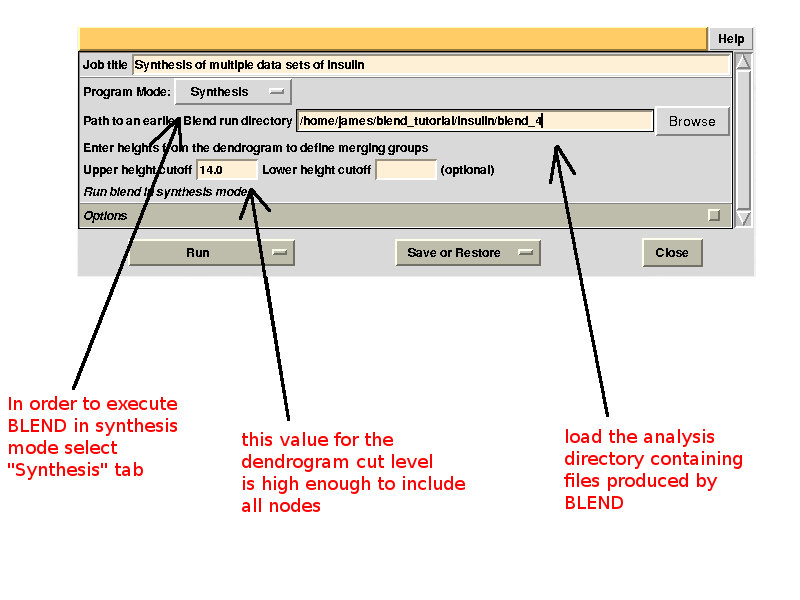
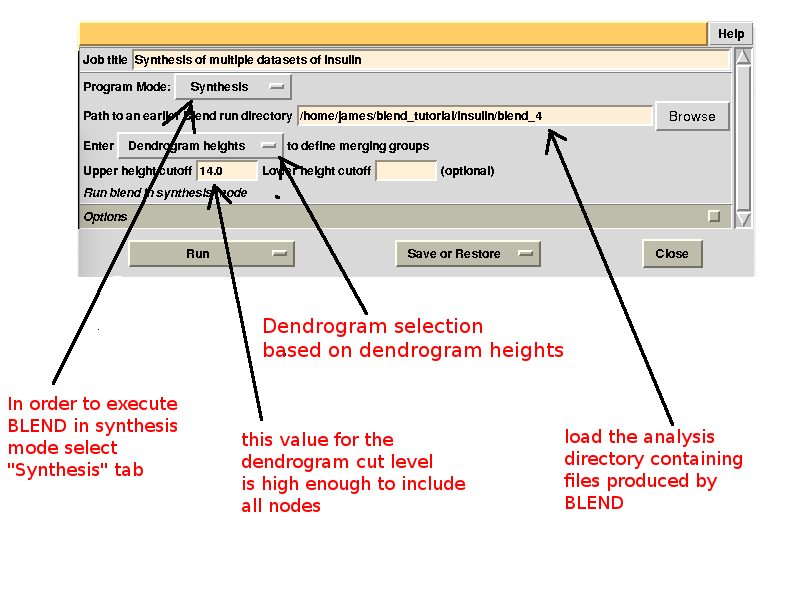
BLEND: CHANGES IN VERSION 0.6.16  -  20/11/2015        - Added missing code for displaying correctly aLCV annotated dendrograms in PS format.          (module blend4.R)
Also updated some of the material for blend tutorials

diff --git a/additional_material/BLEND_tutorial.html b/additional_material/BLEND_tutorial.html
@@ -244,12 +244,16 @@ interface, but the user
  containing all 14 data sets; this is probably an indication of some
  minor form of non-isomorphism. Tests done so far with BLEND show that
  some structural dissimilarities can be noticed for values of LCV
- higher than 1 – 1.5%.
+ higher than 1 – 1.5%. It is probably more appropriate to use absolute
+ values in order to make judgments on crystals isomorphism. The reason is
+ that the absolute Linear Cell Variation (aLCV) is expressed in angstroms and,
+ thus, it can immediately give sensible numbers in relation to cell parameters
+ differences. 
  </FONT>
 </P>
 <P>
  <FONT SIZE=4>
- LCV
+ LCV and aLCV
  values for all clusters are reported in the file “CLUSTERS.txt”:
  </FONT>
 </P>
@@ -354,7 +358,7 @@ interface, but the user
  <FONT SIZE=4>
  Next,
  we associate this directory to a new project directory in ccp4i,
- called “BLEND_TURORIAL_AMENDED_INSULIN”, and select this project
+ called “BLEND_TUTORIAL_AMENDED_INSULIN”, and select this project
  directory. BLEND can now be executed again in analysis mode, this
  time selecting  the “original.dat” file as starting point, rather
  than the whole directory containing all 14 insulin data sets:
@@ -420,7 +424,8 @@ interface, but the user
  time “FINAL_list_of_files.dat” shows some difference in the
  number of images discarded. For data set 9 discarded images range 102
  to 122, while before it ranged 108 to 122, and images 93 to 100 are
- now discarded from data set 7, while no images were previously discarded:
+ now discarded from data set 7, while no images were previously discarded.
+A small change also occurs for data set 1:
  </FONT>
 </P>
 <P ALIGN=CENTER
@@ -532,6 +537,13 @@ interface, but the user
 </P>
 <P ALIGN=CENTER>
 <img src="imagesBT/BLEND_0.5.1_tutorial_html_1522a9ab.png">
+</P>
+<P>
+ <FONT SIZE=4>
+ Cluster selection can also be based on LCV or aLCV values. This might make sense when one's only interest is in finding the most 
+ compact groups of crystals. The selection of all clusters just reported can be also achieved by selecting "aLCV values" instead
+ of "Dendrogram heights" and inputting for example "0.85" (so to cover all clusters), rather than "14".
+ </FONT>
 </P>
 <P>
  <FONT SIZE=4>
@@ -888,12 +900,23 @@ interface, but the user
 <P>
  <FONT SIZE=4>
  To run BLEND in synthesis mode and
- produce scaled data for all nodes of the dendrogram, type:
+ produce scaled data for all nodes of the dendrogram, we could type:
  </FONT>
 </P>
 <P ALIGN=CENTER>
  <FONT SIZE=4 COLOR="#008000">
  blend -s 14 &lt; bkeys.dat &gt; blend_synthesis.log
+ </FONT>
+</P>
+<P>
+ <FONT SIZE=4>
+ But, just to show that the same results are obtained using aLCV, rather than the dendrogram's height, we 
+ executed BLEND in the following way:
+ </FONT>
+</P>
+<P ALIGN=CENTER>
+ <FONT SIZE=4 COLOR="#008000">
+ blend -saLCV 0.85 &lt; bkeys.dat &gt; blend_synthesis.log
  </FONT>
 </P>
 <P>
@@ -1018,7 +1041,7 @@ interface, but the user
 </P>
 <P ALIGN=CENTER>
  <FONT SIZE=4 COLOR="#008000">
- mkdir lysozyme_test
+ mkdir lysozyme
  </FONT>
 </P>
 <P>
@@ -1053,7 +1076,7 @@ interface, but the user
  <FONT SIZE=4>
  The
  overall Linear Cell Variation (LCV) has a high value. This is
- certainly caused by the couple of crystals in the isolated branch on
+ certainly caused by the two of crystals in the isolated branch on
  the left of the dendrogram, as it can be confirmed by looking at cell
  parameters plots in BLEND log file (new style):
  </FONT>
@@ -1072,13 +1095,13 @@ interface, but the user
  set), therefore we can get rid of sweeps 19 and 21 without loosing
  much data and re-run BLEND in analysis mode. One way of
  executing BLEND using the same data without sweeps 19 and 21
- is by renaming file "mtz_names.dat" as "original.dat" and
+ is by copying file "mtz_names.dat" into "original.dat" and
  deleting the lines pointing to these sweeps:
  </FONT>
 </P>
 <P ALIGN=CENTER>
  <FONT SIZE=4 COLOR="#008000">
- mv lysozyme/blend_1/mtz_names.dat lysozyme/original.dat
+ cp lysozyme/blend_1/mtz_names.dat lysozyme/original.dat
  <br>
  [edit "lysozyme/original.dat" and delete lines containing "dataset_019.mtz" and "dataset_021.mtz"]
  </FONT>
@@ -1112,7 +1135,7 @@ interface, but the user
 <P>
  <FONT SIZE=4>
  As
- we can see, the new LCV is much smaller, although the value 1.68% (and the absolute LCV value 1.46 &Aring;)
+ we can see, the new LCV is much smaller, although the value 1.40% (and the absolute LCV value 1.54 &Aring;)
  still indicates some non-isomorphism among all crystals. We know this
  is the case because crystals have been assembled from
  differently-prepared structures. Indeed, LCV values computed
@@ -1194,16 +1217,41 @@ interface, but the user
  "merged_files" directory, and they are ready for further
  investigations. Some of the statistics can be improved by filtering
  out certain sweeps from specific clusters. A visualization of the
- above table is provided in the following picture,
- where clusters with completeness around 90% or better are represented
- by grey circles and the corresponding R<SUB>meas</SUB> value is typed
- underneath:
+ above table can be conveniently created running BLEND in graphics
+ mode. The program needs to be pointed at the directory in which the
+ run in synthesis mode has been executed. Three types of results from
+ the statistics produced by AIMLESS will be annotated in the dendrogram
+ around a user-specified cluster. Furthermore details of the dendrogram
+ are determined by the user-selected number of levels down the chosen
+ cluster. For the specific case treated here we would like to view merging
+ statistics in an annotated dendrogram starting from the top cluster (cluster 25)
+ and going down 10 levels (this is normally enough for a first view of
+ the tree). For executing this mode the gui is arranged as in the following
+ picture:
  </FONT>
 </P>
 <P ALIGN=CENTER>
 <img src="imagesBT/BLEND_0.5.1_tutorial_html_7e484900.png">
 <br>
 <br>
+</P>
+<P>
+ <FONT SIZE=4>
+ And this is the annotated dendrogram created:
+ </FONT>
+</P>
+<P ALIGN=CENTER>
+<img src="imagesBT/annotated_dendrogram01.png">
+<br>
+<br>
+</P>
+<P>
+ <FONT SIZE=4>
+ In the above annotated dendrogram clusters at a same level are formed by the same number of data sets. If the dendrogram is
+ densely populated it might be difficult to see which data set belong to which cluster. For example clusters 13 and 14 are both
+ formed by 4 data sets; clusters 18 and 19 both formed by 5 data sets. It is clear that the height of the level does not always
+ correspond to higher number of data sets.
+ </FONT>
 </P>
 <P>
  <FONT SIZE=4>

diff --git a/src/blend.cpp b/src/blend.cpp
@@ -10,6 +10,9 @@
 /********* included in the root directory of this package.                                          *********/
 /************************************************************************************************************/
 /************************************************************************************************************/
+// CHANGES IN VERSION 0.6.17  -  28/11/2015
+// - Fixed a bug responsible for wrong output of the level of certain clusters.
+//   (module blend4.R)
 // CHANGES IN VERSION 0.6.16  -  20/11/2015
 // - Added missing code for displaying correctly aLCV annotated dendrograms in PS format.
 //   (module blend4.R)
